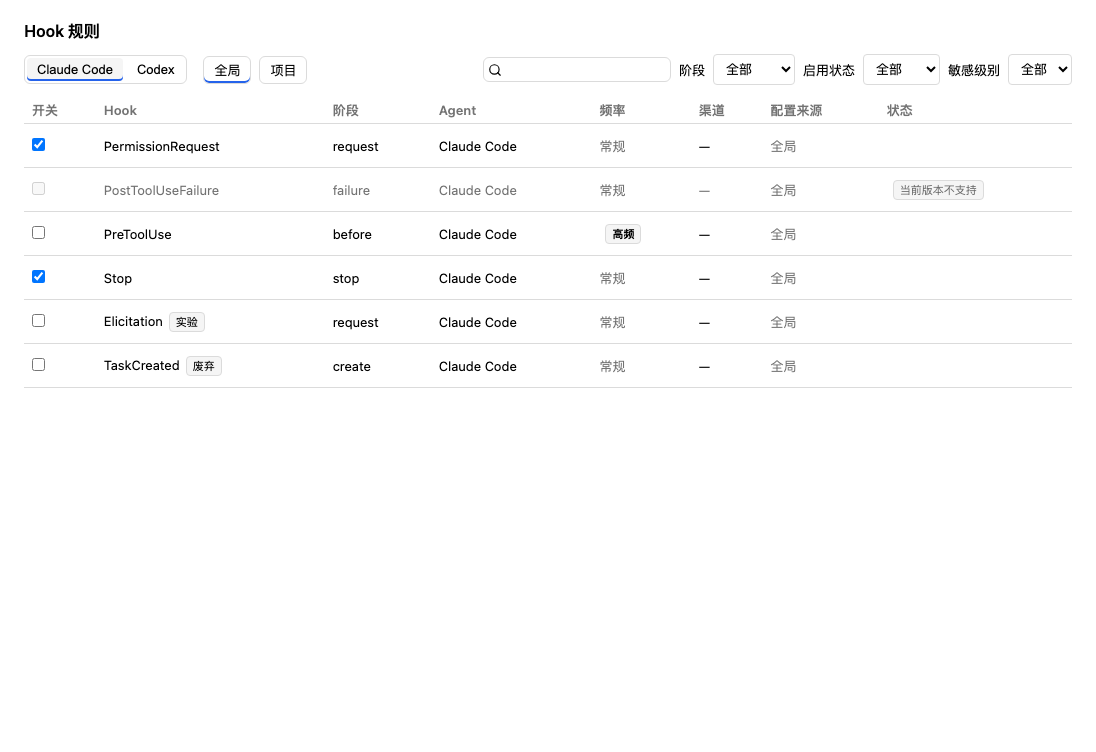
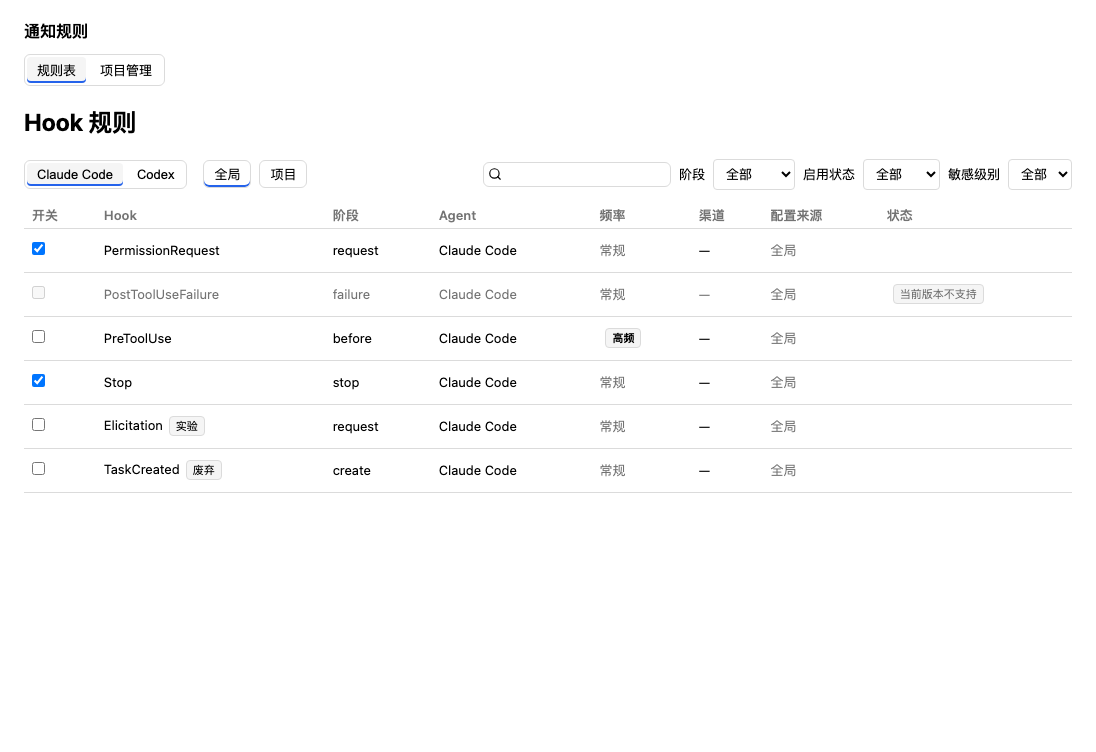
test(e2e): 4-destination flows, regenerated baselines and doc image

diff --git a/tests/e2e/app.spec.ts b/tests/e2e/app.spec.ts
@@ -19,32 +19,28 @@ import { expect, test, type Page } from "@playwright/test";
 
 /** Nav rail labels (zh-CN authoritative dictionary) + snapshot stems. */
 const NAV_PAGES = [
-  ["概览", "overview"],
-  ["Agent 集成", "agents"],
-  ["Hook 规则", "hooks"],
-  ["渠道", "channels"],
-  ["项目", "projects"],
-  ["通知历史", "history"],
+  ["工作台", "workbench"],
+  ["通知规则", "rules"],
+  ["集成", "integrations"],
   ["设置", "settings"],
 ] as const;
 
 const SETTLE_TARGETS: Record<(typeof NAV_PAGES)[number][1], () => Promise<unknown>> = {
-  overview: (page) => page.getByRole("heading", { name: "待处理问题" }).waitFor(),
-  agents: (page) => page.getByRole("row", { name: /Claude Code/ }).first().waitFor(),
-  hooks: (page) => page.getByRole("row", { name: /Stop/ }).waitFor(),
-  channels: (page) => page.getByRole("cell", { name: "值班群", exact: true }).waitFor(),
-  projects: (page) => page.getByRole("cell", { name: "演示项目" }).waitFor(),
-  // Wait for the HYDRATED channel-name cell: history rows can render before
-  // the async listChannels swap resolves, and screenshotting that transient
-  // state is the one nondeterminism on this page.
-  history: (page) =>
-    page.getByRole("cell", { name: "值班群", exact: true }).first().waitFor(),
+  workbench: (page) => page.getByRole("heading", { name: "待处理问题" }).waitFor(),
+  rules: (page) => page.getByRole("row", { name: /Stop/ }).waitFor(),
+  integrations: (page) =>
+    page.getByRole("row", { name: /Claude Code/ }).first().waitFor(),
   // Hydration enables the retention inputs; value proves get_settings landed.
   settings: (page) => expect(page.locator("#settings-event-days")).toHaveValue("30"),
 };
 
 async function openPage(page: Page, label: string): Promise<void> {
   await page.getByRole("button", { name: label }).click();
+}
+
+/** In-page TabBar tab (role=tab), e.g. 通知去向 inside 集成. */
+async function openTab(page: Page, label: string): Promise<void> {
+  await page.getByRole("tab", { name: label }).click();
 }
 
 async function openAndSettle(page: Page, entry: (typeof NAV_PAGES)[number]): Promise<void> {
@@ -138,7 +134,7 @@ test.describe("workflow coverage", () => {
     page,
   }) => {
     await page.goto("/");
-    await openPage(page, "Hook 规则");
+    await openPage(page, "通知规则");
     await page.getByRole("row", { name: /Stop/ }).waitFor();
 
     // Switch to the project scope and pick the seeded project.
@@ -165,7 +161,8 @@ test.describe("workflow coverage", () => {
     await expect(drawer.getByText("预览：Stop")).toBeVisible();
 
     // Raw credential material must never reach ANY rendered output.
-    await openPage(page, "渠道");
+    await openPage(page, "集成");
+    await openTab(page, "通知去向");
     await page.getByRole("cell", { name: "值班群", exact: true }).waitFor();
     await expect(page.locator("body")).not.toContainText("secret-raw-value");
   });
@@ -208,13 +205,14 @@ test.describe("workflow coverage", () => {
     await sendTest.focus();
     await page.keyboard.press("Enter");
 
-    // Completion lands in the main shell.
-    await page.getByRole("heading", { name: "Hook 规则" }).waitFor();
-    await expect(page.getByRole("button", { name: "概览" })).toBeVisible();
+    // Completion lands in the main shell at its default workbench.
+    await page.getByRole("heading", { name: "工作台" }).waitFor();
+    await expect(page.getByRole("button", { name: "通知规则" })).toBeVisible();
   });
 
   test("keyboard-only rule edit toggles a hook and closes the drawer", async ({ page }) => {
     await page.goto("/");
+    await openPage(page, "通知规则");
     await page.getByRole("row", { name: /Stop/ }).waitFor();
 
     const row = page.getByRole("row", { name: /Stop/ });
@@ -241,7 +239,7 @@ test.describe("workflow coverage", () => {
 test.describe("desktop layout coverage", () => {
   test("all primary pages fit at the minimum window without overlap", async ({ page }) => {
     await page.goto("/");
-    await page.getByRole("row", { name: /Stop/ }).waitFor(); // initial hooks page ready
+    await page.getByRole("heading", { name: "待处理问题" }).waitFor(); // default workbench ready
     for (const entry of NAV_PAGES) {
       await openAndSettle(page, entry);
       await assertDesktopLayout(page);
@@ -253,20 +251,21 @@ test.describe("desktop layout coverage", () => {
   test("hook rules fit at 1280×800 and 1440×900", async ({ page }) => {
     await page.setViewportSize({ width: 1280, height: 800 });
     await page.goto("/");
+    await openPage(page, "通知规则");
     await page.getByRole("row", { name: /Stop/ }).waitFor();
     await assertDesktopLayout(page);
-    await expect(page.locator("main")).toHaveScreenshot("hooks-1280x800.png");
+    await expect(page.locator("main")).toHaveScreenshot("rules-1280x800.png");
 
     await page.setViewportSize({ width: 1440, height: 900 });
     await assertDesktopLayout(page);
-    await expect(page.locator("main")).toHaveScreenshot("hooks-1440x900.png");
+    await expect(page.locator("main")).toHaveScreenshot("rules-1440x900.png");
   });
 
   test("content survives 200% browser zoom without loss", async ({ page }) => {
     // 1920×1080 at zoom 2 ≈ the 960×640 minimum CSS viewport (WCAG 1.4.4).
     await page.setViewportSize({ width: 1920, height: 1080 });
     await page.goto("/");
-    await page.getByRole("row", { name: /Stop/ }).waitFor();
+    await page.getByRole("heading", { name: "待处理问题" }).waitFor();
     await page.evaluate(() => {
       (document.documentElement.style as CSSStyleDeclaration & { zoom: string }).zoom = "200%";
     });
@@ -286,11 +285,11 @@ test.describe("desktop layout coverage", () => {
     await expect(page.locator("html[data-theme=dark]")).toHaveCount(1);
     await page.getByRole("button", { name: "保存", exact: true }).click();
     await expect(page.getByText("设置已保存。")).toBeVisible();
-    await openPage(page, "Hook 规则");
+    await openPage(page, "通知规则");
     await page.getByRole("row", { name: /Stop/ }).waitFor();
     await expect(page.locator("html")).toHaveAttribute("data-theme", "dark");
     await assertDesktopLayout(page);
-    await expect(page.locator("main")).toHaveScreenshot("hooks-dark.png");
+    await expect(page.locator("main")).toHaveScreenshot("rules-dark.png");
 
     // Light comes back cleanly.
     await openPage(page, "设置");
@@ -303,8 +302,9 @@ test.describe("desktop layout coverage", () => {
       window.localStorage.setItem("cc-reminder-e2e:locale", "en");
     });
     await page.goto("/");
-    const longest = page.getByRole("button", { name: "Notification History" });
+    const longest = page.getByRole("button", { name: "Integrations" });
     await longest.waitFor();
+    await openPage(page, "Rules");
     await page.getByRole("row", { name: /Stop/ }).waitFor();
 
     const clipped = await page.evaluate(() => {
@@ -318,6 +318,6 @@ test.describe("desktop layout coverage", () => {
     });
     expect(clipped, "nav labels must wrap or shrink, never clip").toEqual([]);
     await assertDesktopLayout(page);
-    await expect(page.locator("main")).toHaveScreenshot("hooks-en.png");
+    await expect(page.locator("main")).toHaveScreenshot("rules-en.png");
   });
 });

diff --git a/tests/e2e/export-doc-image.spec.ts b/tests/e2e/export-doc-image.spec.ts
@@ -13,6 +13,7 @@ test("export the reviewed Hook Rules documentation image", async ({ page }) => {
 
   await page.setViewportSize({ width: 1280, height: 800 });
   await page.goto("/");
+  await page.getByRole("button", { name: "通知规则" }).click();
   await page.getByRole("row", { name: /Stop/ }).waitFor();
   // Settled state only: no drawers, no dialogs, no transient status text.
   await expect(page.locator(".drawer")).toHaveCount(0);
